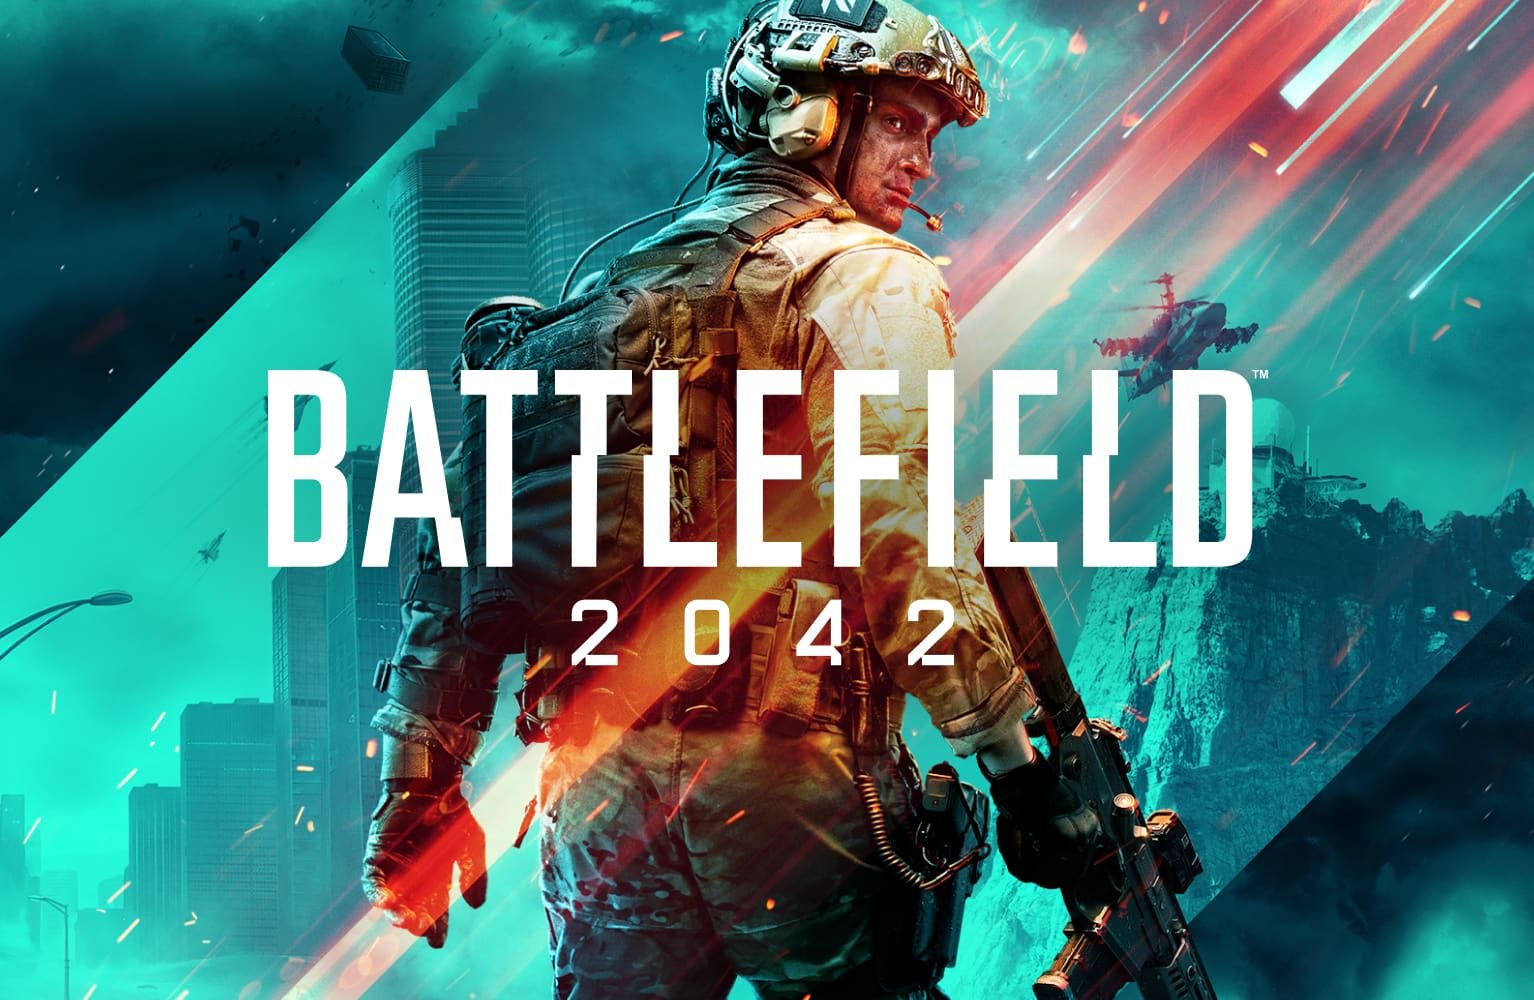
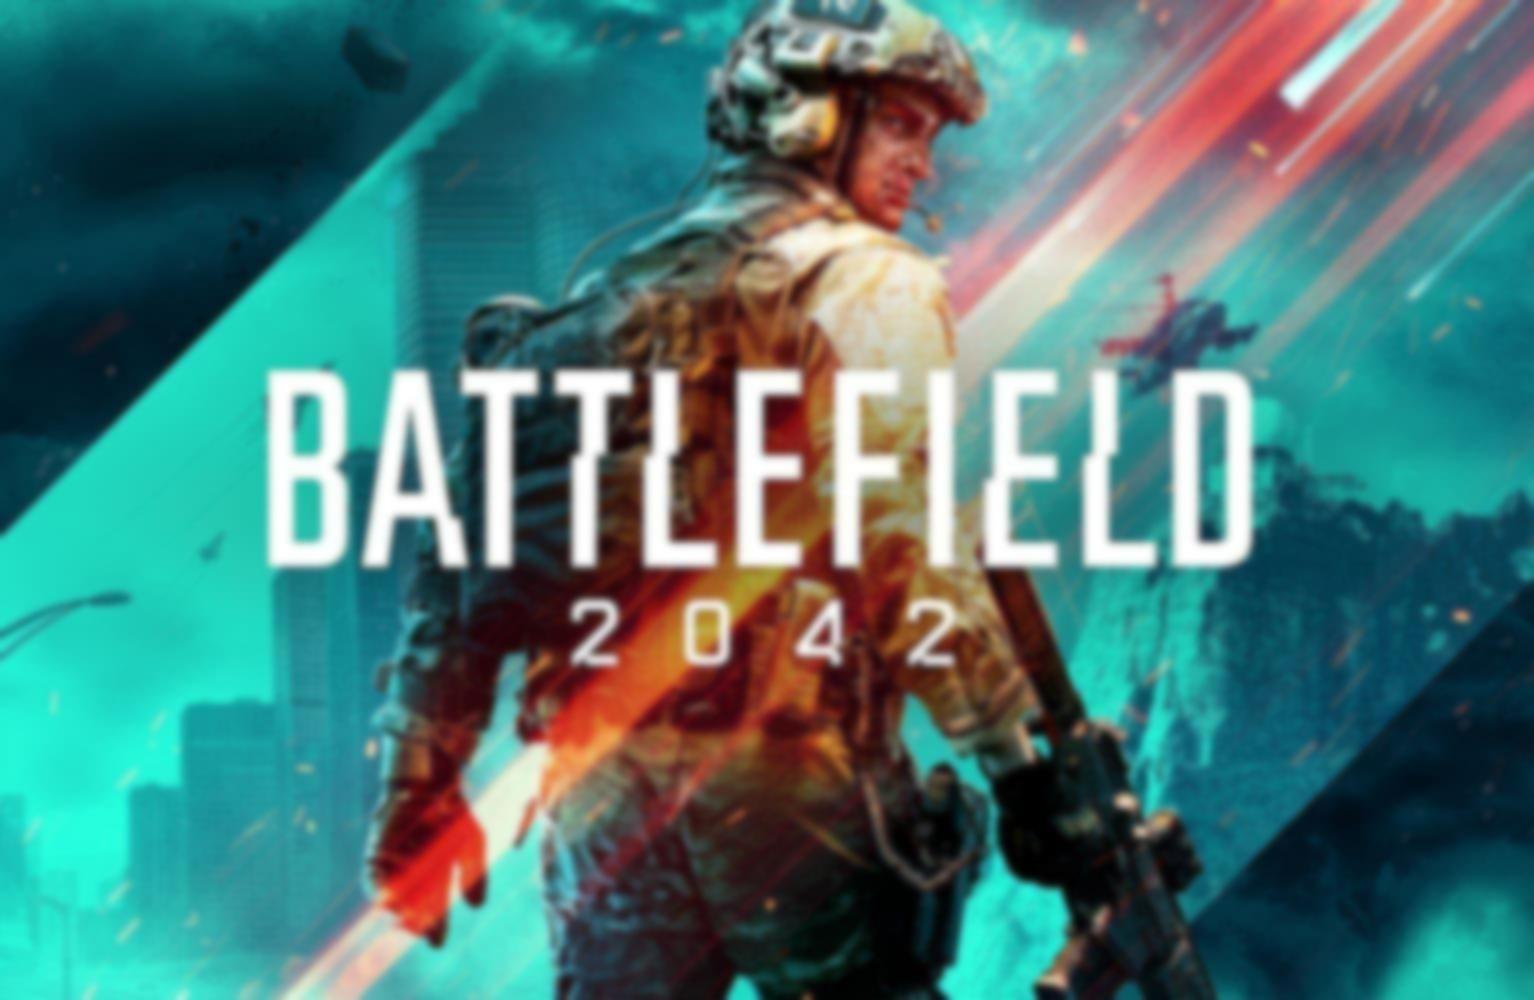
Message

diff --git a/app.py b/app.py
@@ -1,0 +1,57 @@
+from PyQt5.QtWidgets import QApplication, QWidget, QVBoxLayout, QFileDialog, QLabel, QHBoxLayout, QPushButton
+from PyQt5.QtGui import QPixmap
+from back import blur_image, unmask_image
+
+file_path = "Battlefield-2042.jpg"
+
+
+app = QApplication([])
+window = QWidget()
+layout = QVBoxLayout()
+
+save_open_buttons = QHBoxLayout()
+open_button = QPushButton('Открыть')
+save_open_buttons.addWidget(open_button)
+layout.addLayout(save_open_buttons)
+
+tools_layout = QHBoxLayout()
+blur_button = QPushButton('Заблюрить')
+unmask_button = QPushButton('Снять блюр')
+tools_layout.addWidget(blur_button)
+tools_layout.addWidget(unmask_button)
+layout.addLayout(tools_layout)
+
+picture = QLabel()
+pixmap = QPixmap("Battlefield-2042.jpg").scaledToWidth(500)
+picture.setPixmap(pixmap)
+layout.addWidget(picture)
+
+
+window.setLayout(layout)
+
+window.show()
+
+def update_pixmap(file_path):
+    global pixmap
+    pixmap = QPixmap(file_path).scaledToWidth(500)
+    picture.setPixmap(pixmap)
+
+def openFileButtonHandler():
+    global file_path
+    file_path = QFileDialog.getOpenFileName()[0]
+    if file_path:
+        update_pixmap(file_path)
+        
+def blurButton():
+    blur_image(file_path)
+    update_pixmap(file_path)
+
+def unmaskButton():
+    unmask_image(file_path)
+    update_pixmap(file_path)
+
+
+open_button.clicked.connect(openFileButtonHandler)
+blur_button.clicked.connect(blurButton)
+unmask_button.clicked.connect(unmaskButton)
+app.exec()

diff --git a/back.py b/back.py
@@ -1,0 +1,15 @@
+from PIL import Image, ImageFilter
+
+
+def open_image(filename):
+    return Image.app(filename)
+
+def blur_image(filename):
+    image = Image.open(filename)
+    image = image.filter(ImageFilter.GaussianBlur(2))
+    image.save(filename)
+
+def unmask_image(filename):
+    image = Image.open(filename)
+    image = image.filter(ImageFilter.UnsharpMask())
+    image.save(filename)

diff --git a/test.py b/test.py
@@ -1,0 +1,5 @@
+from PIL import Image, ImageFilter
+
+image = Image.open('Battlefield-2042.jpg')
+image = image.filter(ImageFilter.EDGE_ENHANCE_MORE)
+image.show()
